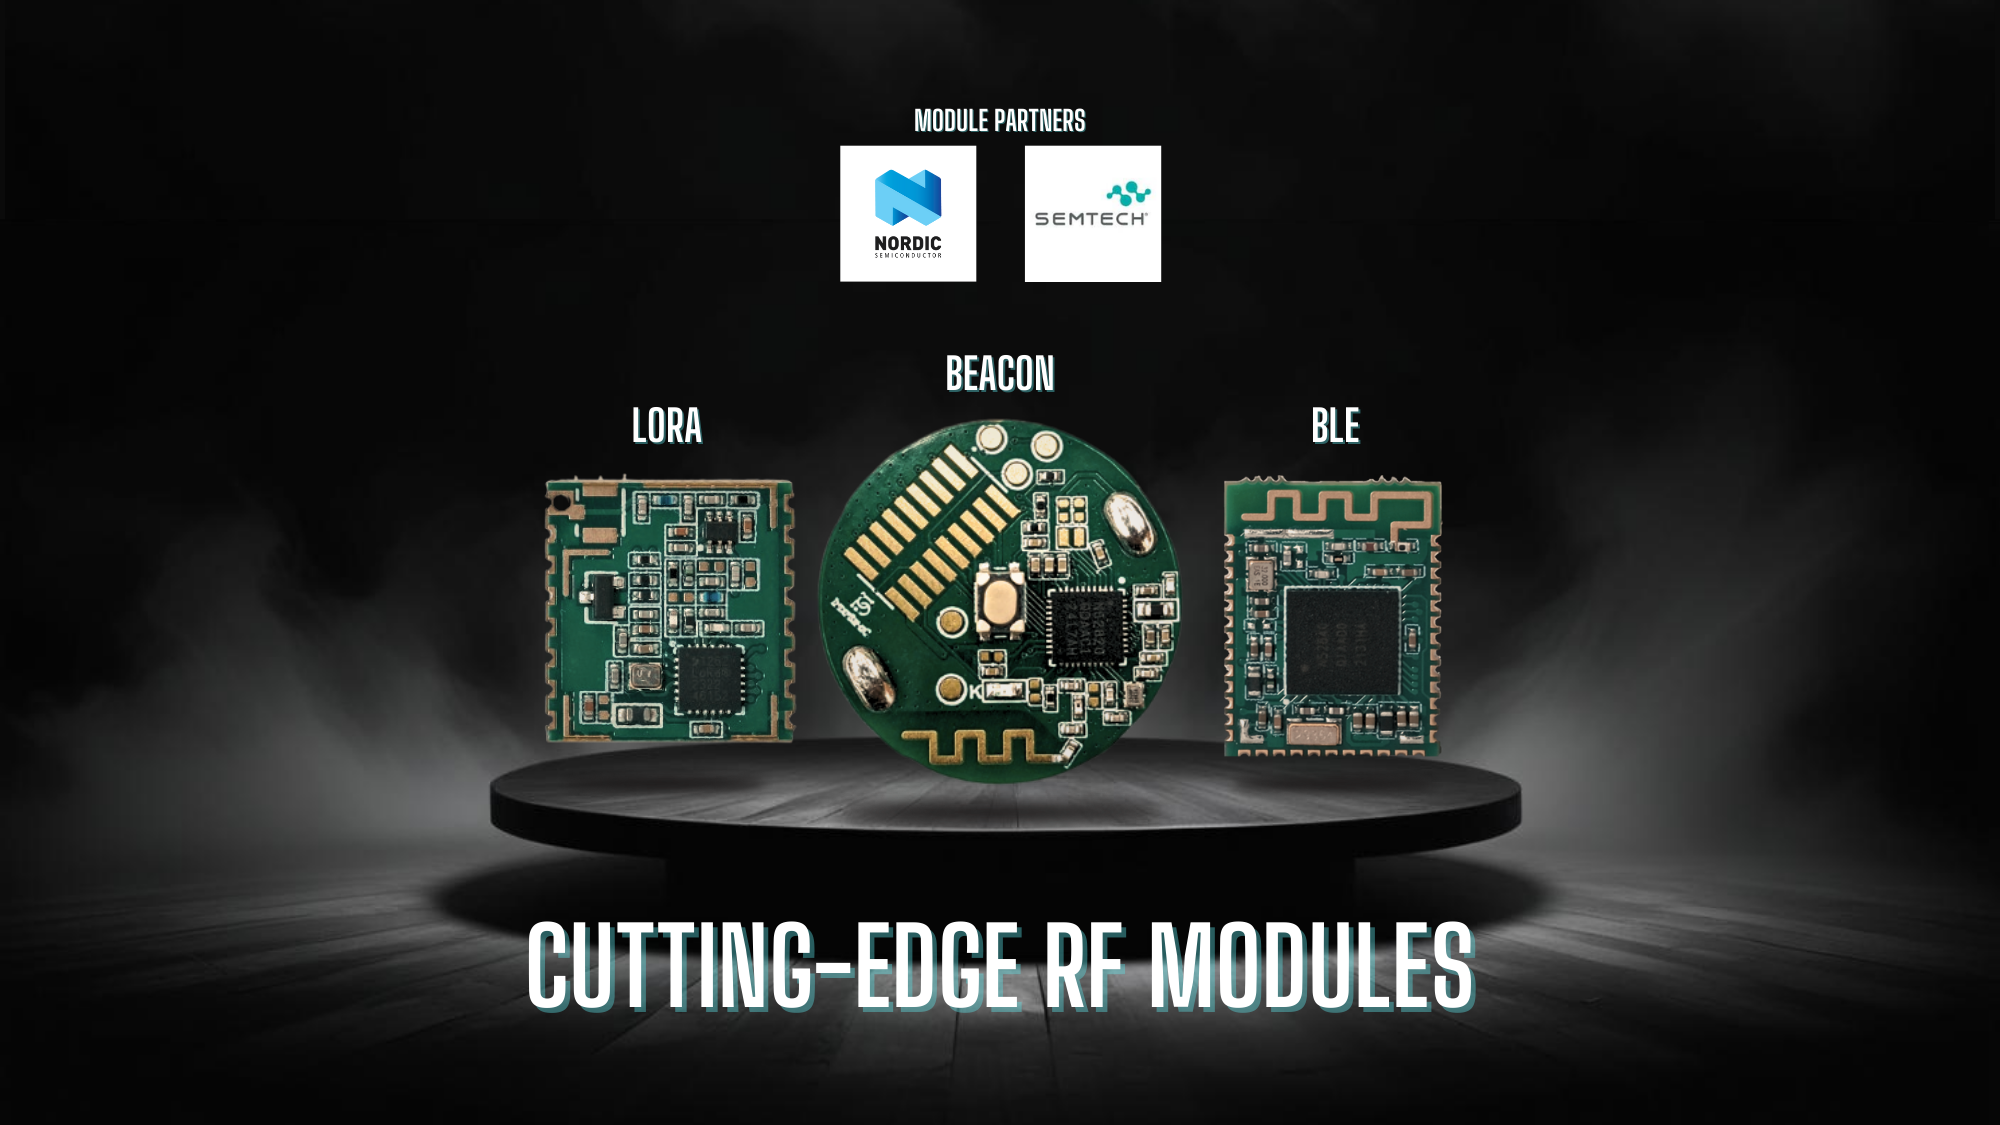
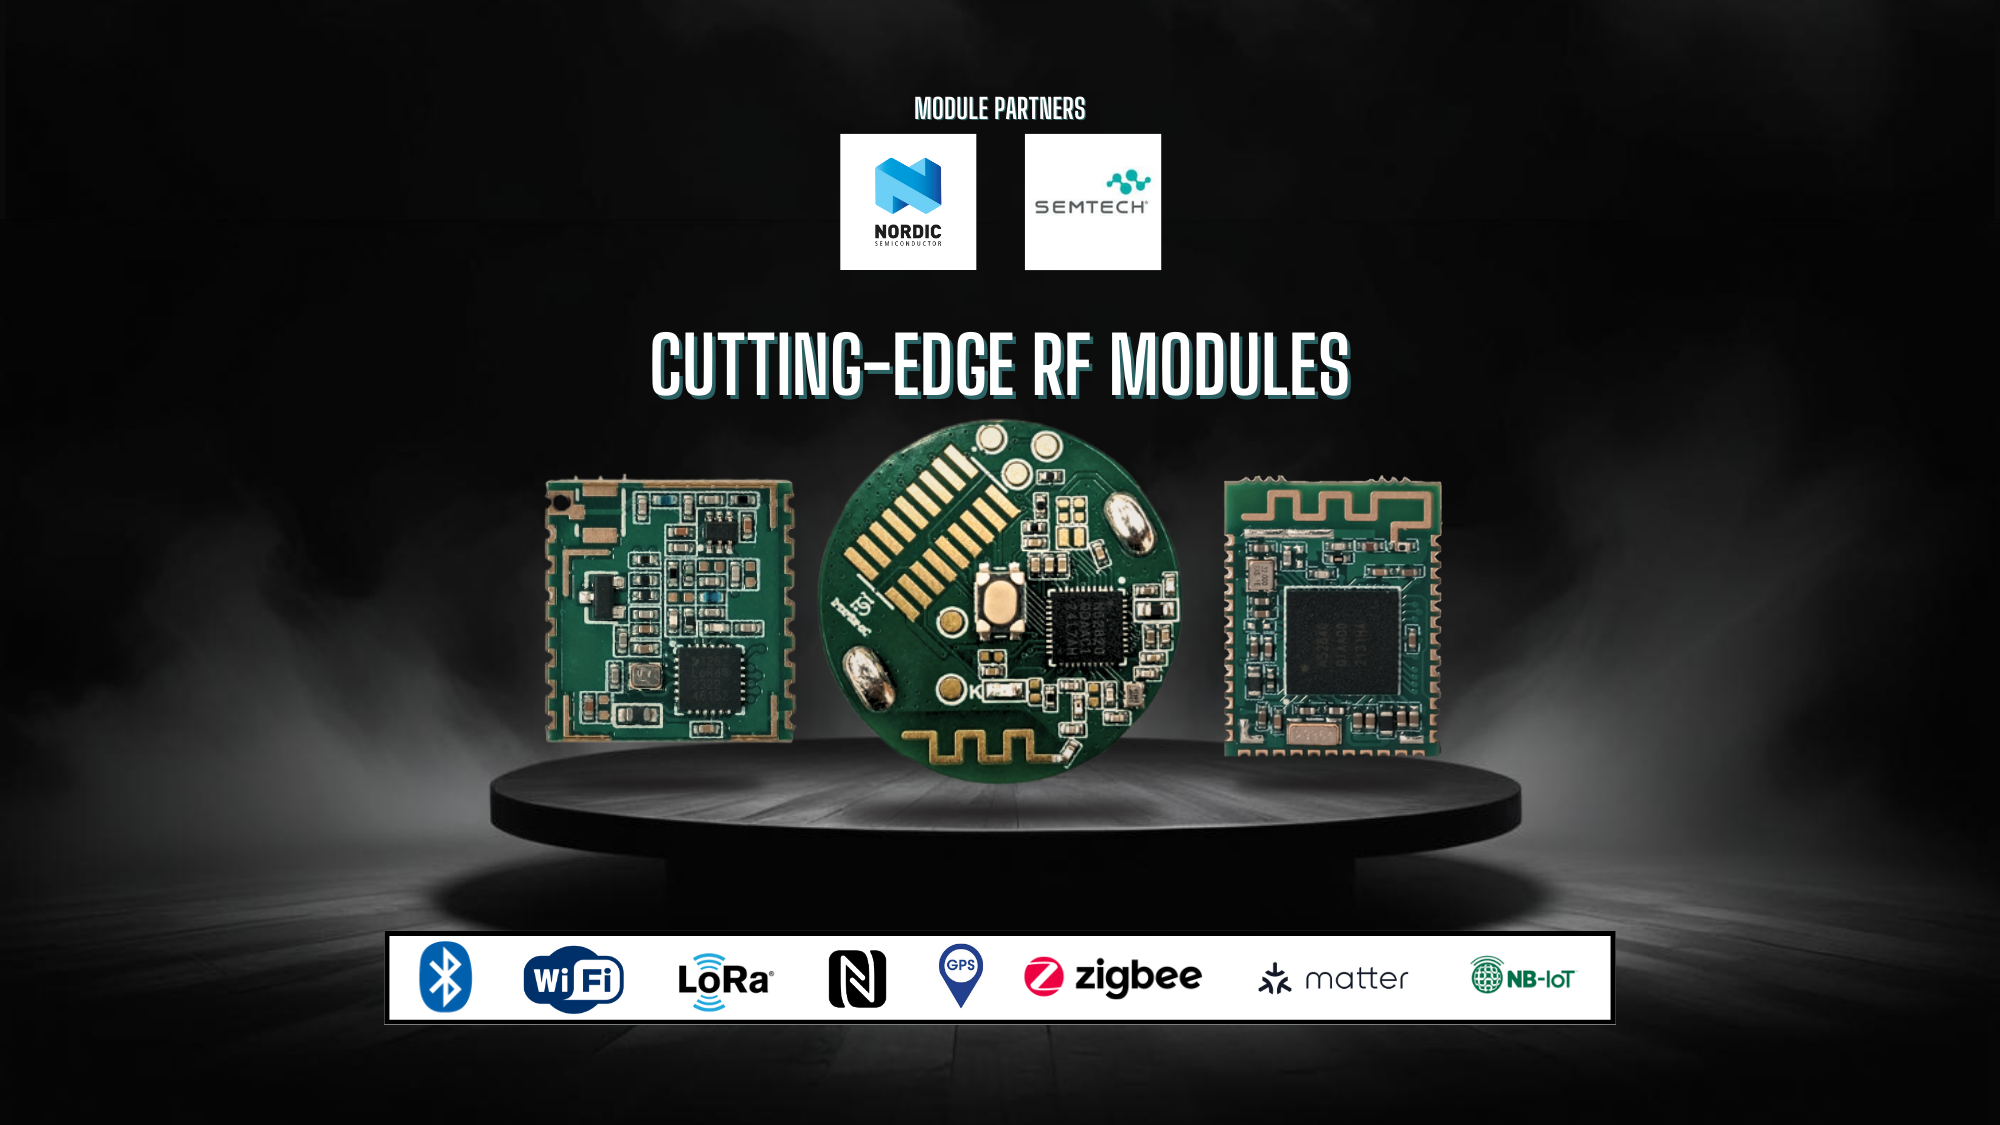
some changes

Changed region(s): [[0.186, 0.8089, 0.806, 0.9333], [0.31, 0.28, 0.682, 0.4044], [0.403, 0.0622, 0.589, 0.2489]]

diff --git a/src/Components/MegaNavigation.jsx/MegaNavigation.jsx b/src/Components/MegaNavigation.jsx/MegaNavigation.jsx
@@ -125,12 +125,13 @@ const MegaNavigation = () => {
                         style={{
                             backgroundColor: isScrolled ? "#ffffff5c" : "transparent",
                             backdropFilter: isScrolled ? "blur(20px)" : "blur(0px)",
-                            top: showAppBar ? 0 : '-64px', transition: 'top 0.3s',
+                            top: showAppBar ? 0 : '-104px',
+                            transition: '0.5s ease-in-out',
                             boxShadow: isScrolled ? "0px 4px 6px rgba(0, 0, 0, 0.1)" : "none",
                         }}
                     >
                         <Toolbar>
-                            <div className='navigationbar'  style={{
+                            <div className='navigationbar' style={{
                                 display: 'flex',
                                 justifyContent: 'space-between',
                                 width: '100%',

diff --git a/src/Components/ContactHome/ContactHome.jsx b/src/Components/ContactHome/ContactHome.jsx
@@ -149,7 +149,7 @@ const ContactHome = () => {
 
                         >
                             <Box sx={{ display: 'flex', gap: 2, width: '100%' }}>
-                                <TextField id="name" label="Name" variant="outlined" value={formValues.name} error={!!formErrors.name}
+                                <TextField id="name" label="Name" color='primary' variant="outlined" value={formValues.name} error={!!formErrors.name}
                                     helperText={formErrors.name}
 
                                     onChange={handleInputChange} sx={{ flex: { xs: '100%', sm: 1 } }} // Full width on mobile, flex on larger screens

diff --git a/src/Styles/Achivement.css b/src/Styles/Achivement.css
@@ -173,17 +173,17 @@ https://images.unsplash.com/photo-1666037813276-dc0046b1d219?q=80&w=2874&auto=fo
   align-items: center;
   font-size: 23px;
 }
-.ButtonContainer button svg{
+.ButtonContainer button svg {
   border: 1px solid white;
   border-radius: 50%;
   margin-left: 5px;
   font-size: 23px;
 }
 @media (max-width: 769px) {
-  .BoxEdit img{
+  .BoxEdit img {
     pointer-events: none;
   }
-  .ButtonContainer{
+  .ButtonContainer {
     overflow: hidden;
     display: block;
   }

diff --git a/src/Components/HeroHome/Hero.jsx b/src/Components/HeroHome/Hero.jsx
@@ -5,7 +5,7 @@ import "../../Styles/Hero.css"
 import 'swiper/css';
 import 'swiper/css/pagination';
 import { Autoplay, Pagination } from 'swiper/modules';
-import BackBanner from "/Images/SliderImage.png"
+import BackBanner from "/Images/Cutting edge RF modules (1) (1).png"
 import TryBanner from "/Images/TryBanner.jpeg"
 import ChipVideo from "/Images/ChipVideo.mp4"
 import CarouselVideo from "/Images/Cutting edge RF modules.mp4"

diff --git a/src/Components/Achivement/Achivement.jsx b/src/Components/Achivement/Achivement.jsx
@@ -136,7 +136,7 @@ const Achivement = () => {
                     open={isModalVisible}
                     footer={null} // Remove footer
                     onCancel={handleModalClose} // Close the modal
-                    width={1400}
+                    width={1200}
                     className="ImageModal"
                 >
                     <img src={modalImage} alt="Alternate View" style={{ width: "100%" }} />

diff --git a/src/Styles/ContactHome.css b/src/Styles/ContactHome.css
@@ -21,6 +21,9 @@
   display: flex;
   flex-direction: column;
 }
+.contactInfoContainer .sectionHeading{
+  margin-bottom: 14px;
+}
 .contactFormContainer {
   width: 100%;
   height: 100%;

diff --git a/src/Styles/Hero.css b/src/Styles/Hero.css
@@ -61,7 +61,7 @@
     transform: scale(1);
   }
   50% {
-    transform: scale(1.1);
+    transform: scale(1.05);
   }
   100% {
     transform: scale(1);
